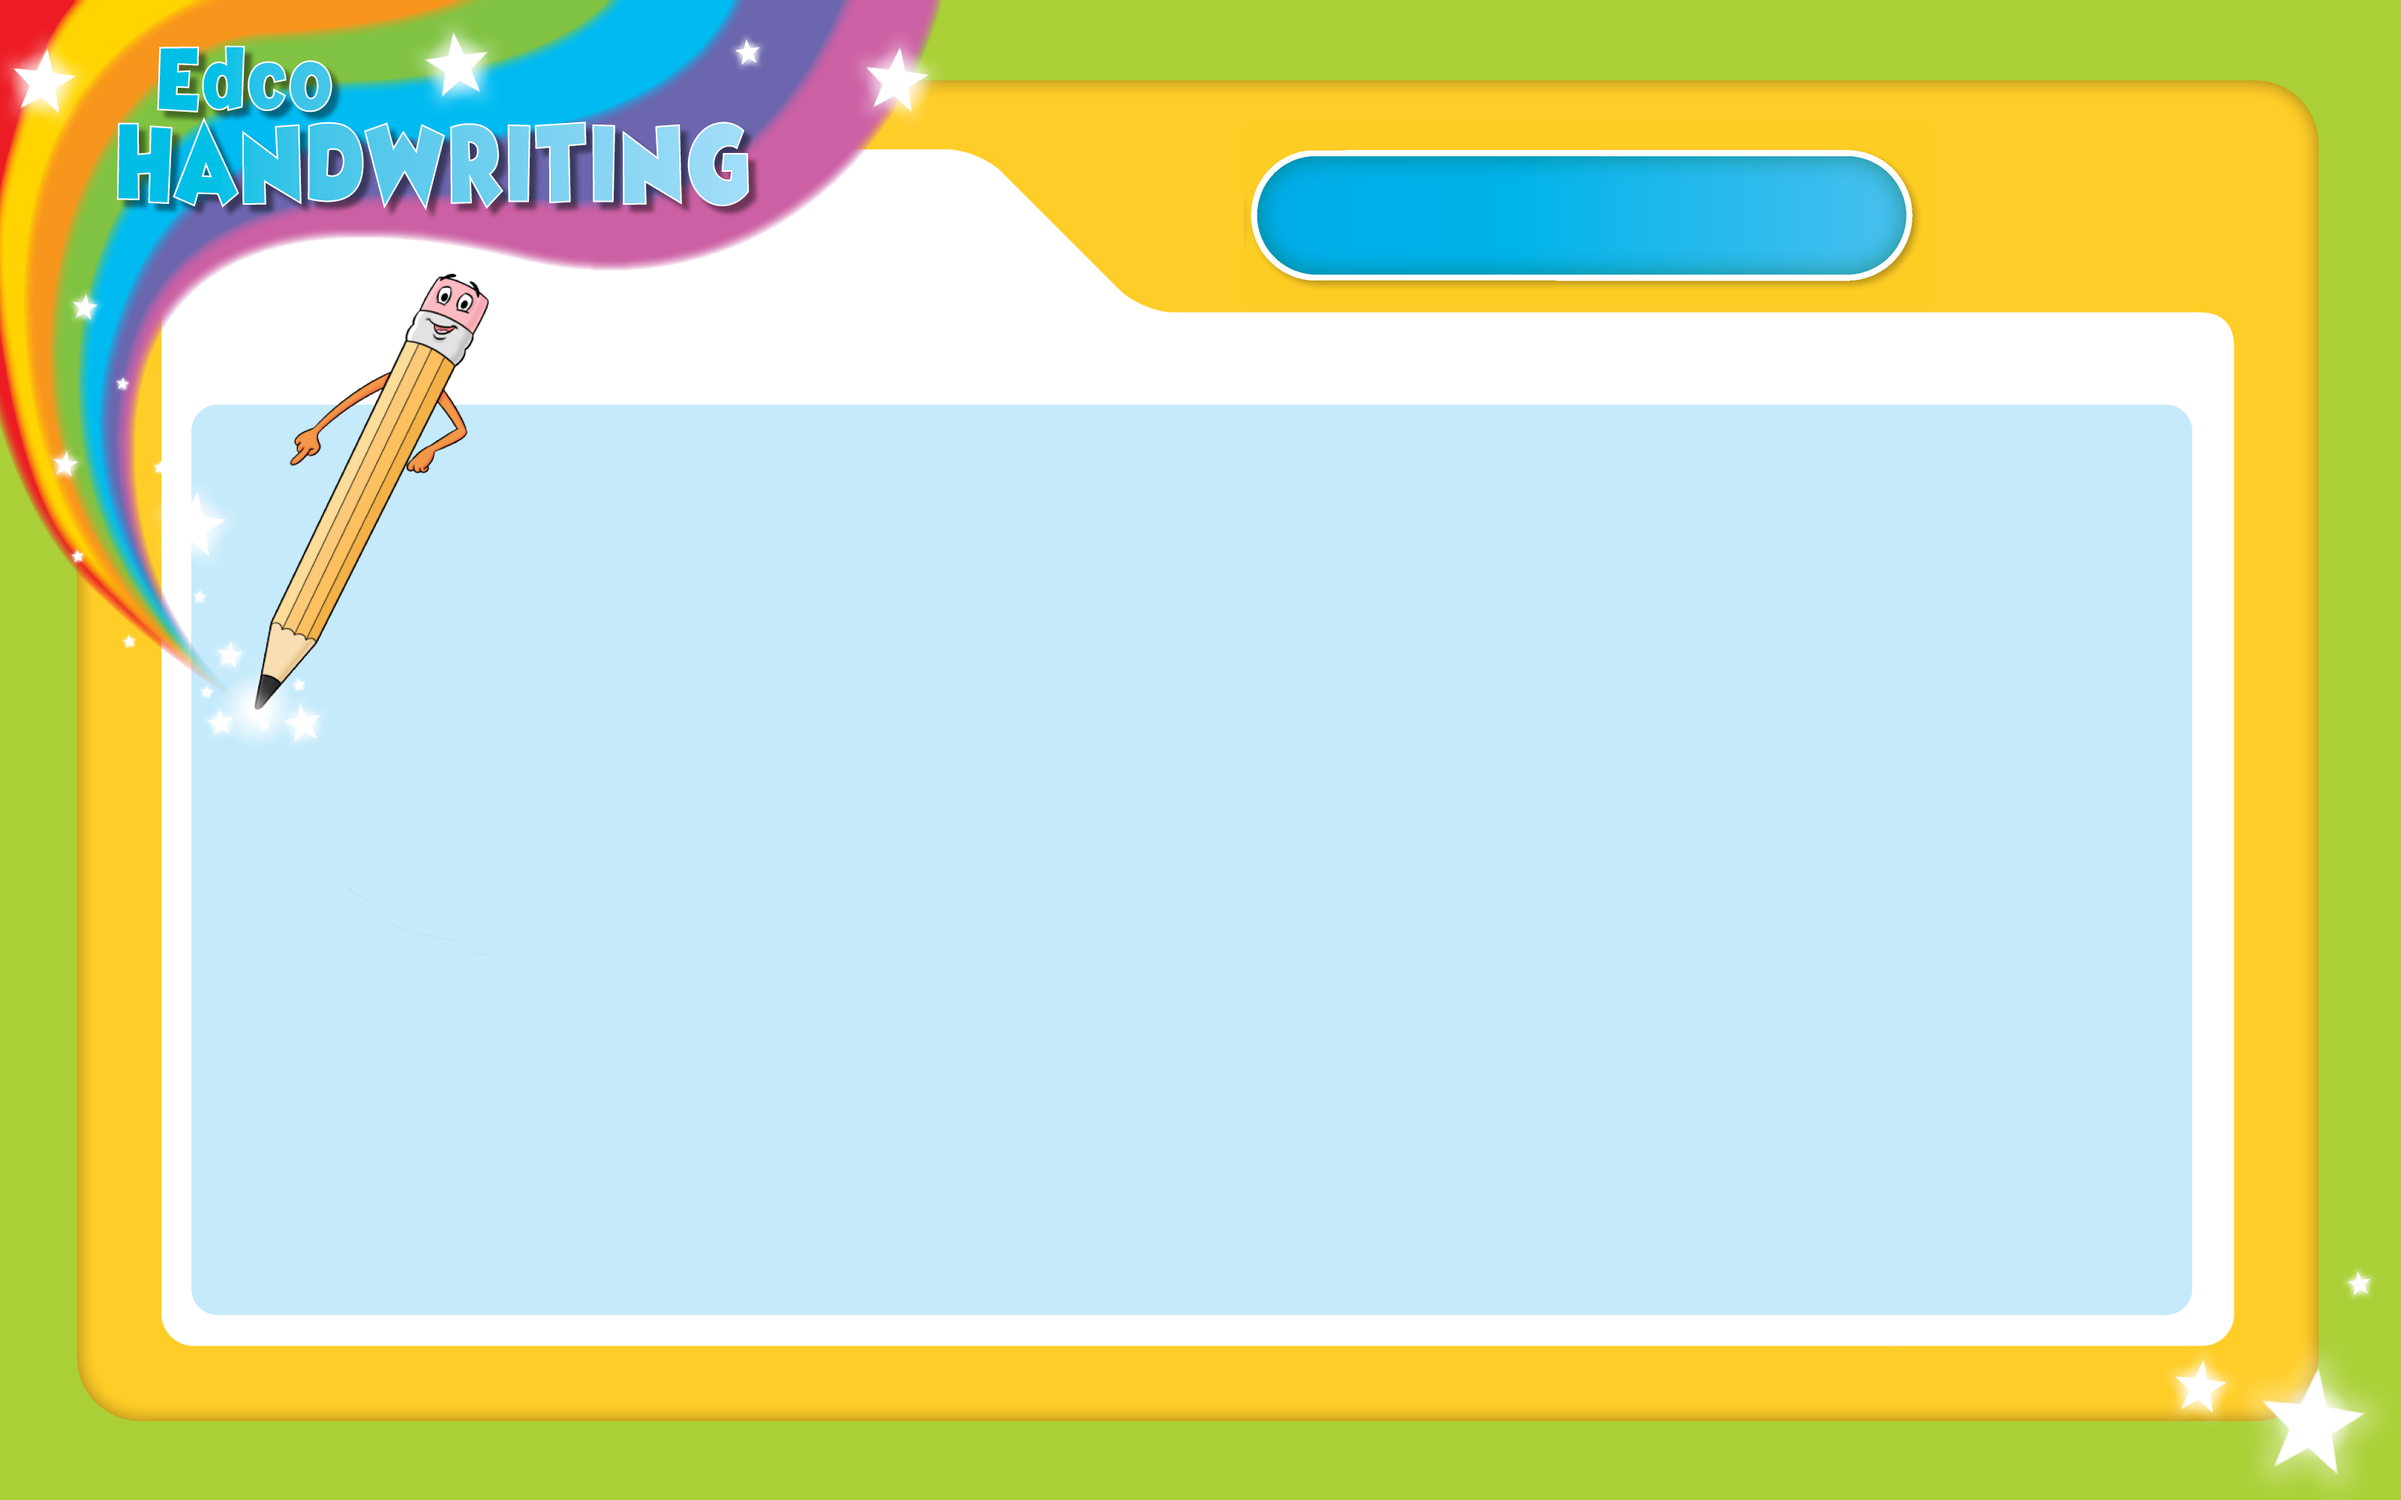
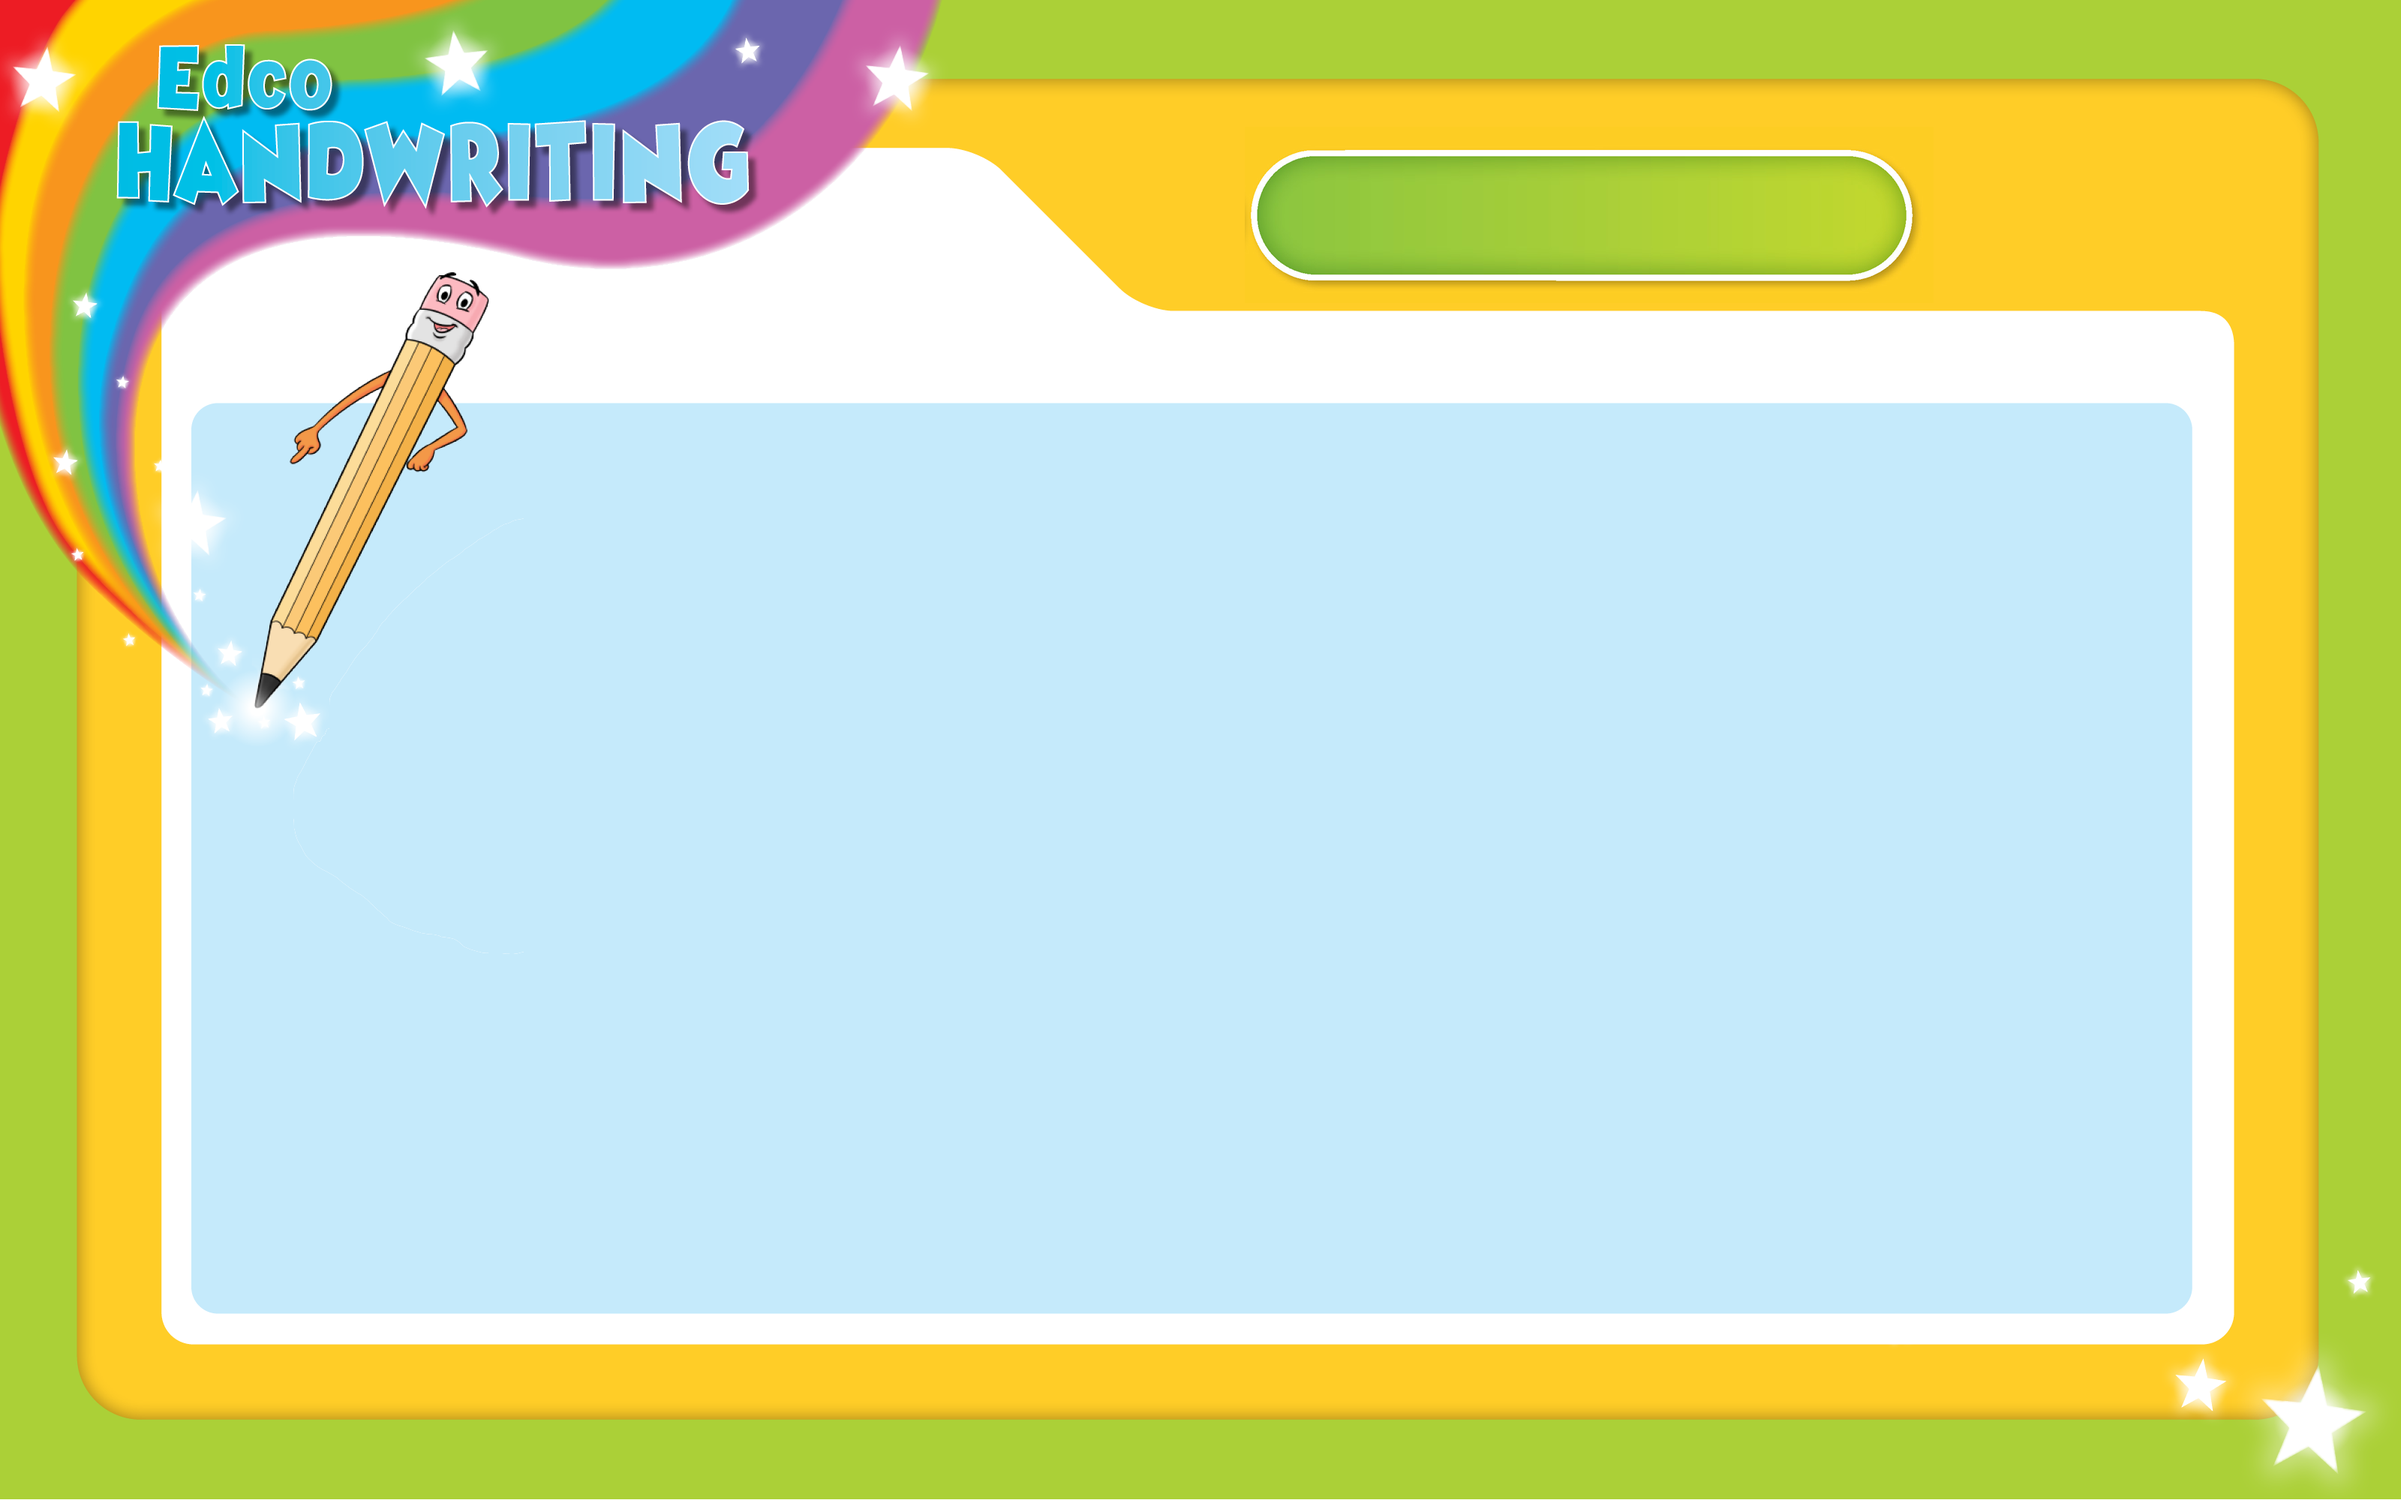
bg changes 26 jul

diff --git a/sample/src/components/LetterFormPractice.jsx b/sample/src/components/LetterFormPractice.jsx
@@ -130,6 +130,25 @@ function LetterFormPractice(props) {
     document.getElementById("vidPlayer-pre").src = path;
   }, []);
 
+  function getTColor(){
+		return <MyConsumer>
+			{
+				(a) => {
+					if(a.activeTab != null){
+						let cc = a.activeTab.replace(" ", "");
+						if(cc.includes("-")){
+							cc = cc.replace("-", "");
+						}
+
+						var r = document.documentElement;
+						r.style.setProperty("--tabColors", a.getImg[cc].tColor);
+					}
+					
+				}
+			}
+		</MyConsumer>
+	}
+
   function abc() {
     return (
       <MyConsumer>
@@ -148,7 +167,7 @@ function LetterFormPractice(props) {
       </MyConsumer>
     );
   }
-  //console.log("AAAAAA", wPage);
+  
   return (
     <div className="activity-base">
       <img alt="" src={pencilImg} className="pencile-image" />
@@ -191,6 +210,7 @@ function LetterFormPractice(props) {
           className="drawingTool"
         />
       </div>
+      {getTColor()}
     </div>
   );
 }

diff --git a/sample/src/components/UpperLowerScreen.jsx b/sample/src/components/UpperLowerScreen.jsx
@@ -15,6 +15,25 @@ function UpperLowerScreen(props){
 		document.getElementsByClassName("activity-base")[0].style.backgroundImage = "url("+actImg+")";
 	}, [])
 
+	function getTColor(){
+		return <MyConsumer>
+			{
+				(a) => {
+					if(a.activeTab != null){
+						let cc = a.activeTab.replace(" ", "");
+						if(cc.includes("-")){
+							cc = cc.replace("-", "");
+						}
+
+						var r = document.documentElement;
+						r.style.setProperty("--tabColors", a.getImg[cc].tColor);
+					}
+					
+				}
+			}
+		</MyConsumer>
+	}
+
 	function abc(){
 		return <MyConsumer>
 		  {
@@ -61,7 +80,7 @@ function UpperLowerScreen(props){
 			</div>
 			
 		</div>
-
+		{getTColor()}
   	</div>
   </div>
     )

diff --git a/sample/src/components/activity.css b/sample/src/components/activity.css
@@ -354,8 +354,8 @@
 }
 
 .letterFormbodyTxt {
-  background: #accf46;
-  box-shadow: inset 0 0 8px 4px #89bc40;
+  background: var(--tabColors);
+  box-shadow: inset 0 0 8px 4px var(--tabColors);
   border: 2px solid #fff;
   border-radius: 25px;
   padding: 10px 40px;

diff --git a/sample/src/components/GameComponent.jsx b/sample/src/components/GameComponent.jsx
@@ -50,6 +50,7 @@ class GameComponent extends Component{
 		}
 		return tname;
 	}
+	
     render(){
 			var gamePath = "assets/Game/"+this.getTabName()+"/index.html";
 			return(
